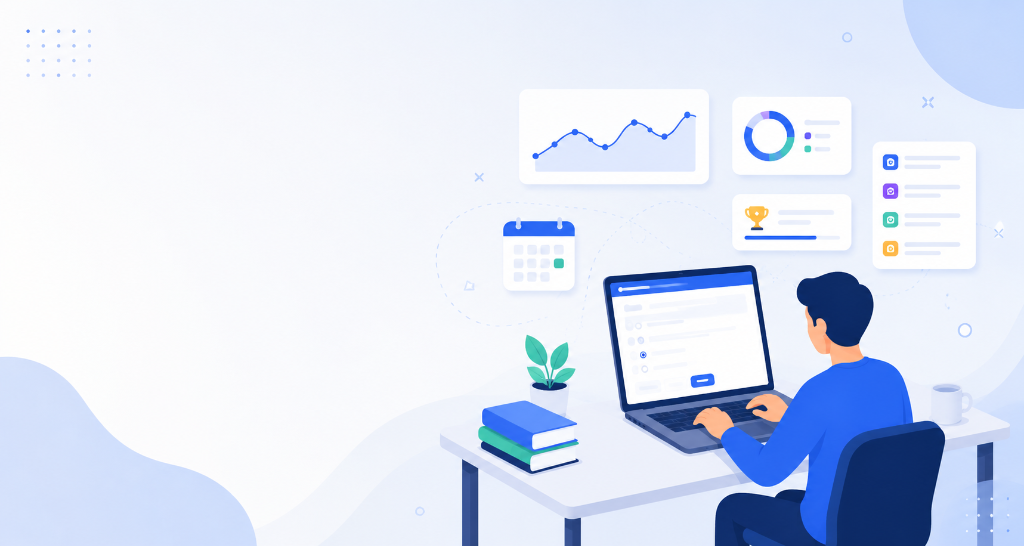
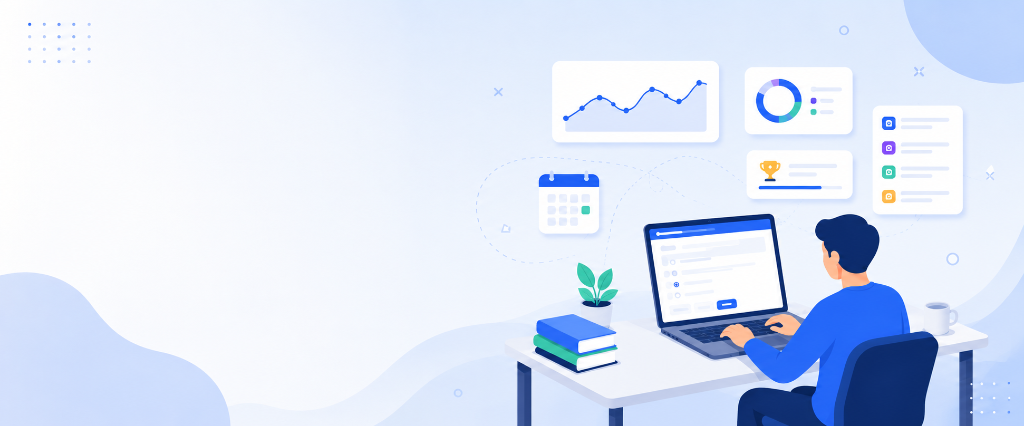
feat(ui): use custom illustration as hero background with minimal wording and clean search bar

diff --git a/src/app/page.tsx b/src/app/page.tsx
@@ -143,70 +143,60 @@ export default async function Home() {
         </div>
       </header>
 
-      {/* 2. Clean, Simple Hero Section (Exact Layout of Reference Image) */}
-      <section className="relative overflow-hidden border-b border-[#E2E8F0] bg-white px-6 py-12 lg:py-20">
-        <div className="mx-auto max-w-7xl">
-          <div className="grid items-center gap-10 lg:grid-cols-2">
-            {/* Left Column: Simple Headline, Subtitle, Prompt & Search Bar */}
-            <div className="max-w-xl">
-              <h1 className="text-4xl font-extrabold tracking-tight text-[#0F172A] sm:text-5xl lg:text-[3.25rem] leading-[1.18]">
-                India&apos;s Structured Online Test<br />
-                <span className="text-[#0F172A]">series platform</span>
-              </h1>
+      {/* 2. Minimal Hero Section with User's Banner Background */}
+      <section className="relative overflow-hidden border-b border-[#E2E8F0] bg-[#EEF4FE] min-h-[460px] lg:min-h-[520px] flex items-center">
+        {/* Full Image Hero Background */}
+        <div
+          className="absolute inset-0 bg-cover bg-center lg:bg-right bg-no-repeat pointer-events-none"
+          style={{ backgroundImage: "url('/images/hero-banner.png')" }}
+        />
+        {/* Subtle left gradient overlay for crisp readability across viewports */}
+        <div className="absolute inset-0 bg-gradient-to-r from-[#EEF4FE] via-[#EEF4FE]/90 to-transparent lg:via-[#EEF4FE]/70 lg:w-[55%] pointer-events-none" />
 
-              <p className="mt-5 text-base sm:text-lg text-[#64748B] leading-relaxed">
-                Boost your exam preparation with Test Series for Banking, SSC, RRB, NSSB, NPSC &amp; All other Govt. Exams
-              </p>
+        <div className="relative z-10 mx-auto max-w-7xl px-6 py-12 lg:py-16 w-full">
+          <div className="max-w-md lg:max-w-lg">
+            <h1 className="text-3xl font-extrabold tracking-tight text-[#0F172A] sm:text-4xl lg:text-5xl leading-tight">
+              India&apos;s Structured Online<br />
+              Test Series Platform
+            </h1>
 
-              <div className="mt-10">
-                <p className="text-sm font-semibold text-[#0F172A]">
-                  814+ exams covered. Which exam are you preparing for?
-                </p>
+            <p className="mt-3 text-base text-[#64748B]">
+              Practice timed mock tests for NSSB, SSC &amp; NPSC exams.
+            </p>
 
-                {/* Clean, Simple Search Bar matching Reference */}
-                <form action="/exams" method="GET" className="relative mt-3 max-w-xl">
-                  <input
-                    type="text"
-                    name="q"
-                    placeholder="Search for your Exam"
-                    className="w-full rounded-xl border border-[#E2E8F0] bg-white py-3.5 pl-5 pr-12 text-sm text-[#0F172A] placeholder-[#94A3B8] shadow-xs transition focus:border-[#4F46E5] focus:outline-none focus:ring-1 focus:ring-[#4F46E5]"
-                  />
-                  <button
-                    type="submit"
-                    className="absolute inset-y-0 right-0 flex items-center pr-4 text-[#94A3B8] hover:text-[#4F46E5] transition"
-                    aria-label="Search for Exam"
-                  >
-                    <svg className="h-5 w-5" fill="none" stroke="currentColor" viewBox="0 0 24 24">
-                      <path strokeLinecap="round" strokeLinejoin="round" strokeWidth="2" d="M21 21l-6-6m2-5a7 7 0 11-14 0 7 7 0 0114 0z" />
-                    </svg>
-                  </button>
-                </form>
-              </div>
-            </div>
-
-            {/* Right Column: Clean Illustration & Support Bubble */}
-            <div className="relative flex items-center justify-center lg:justify-end">
-              <img
-                src="/images/hero-student.png"
-                alt="Structured Online Test Series Platform"
-                className="w-full max-w-md lg:max-w-lg h-auto object-contain"
+            {/* Minimal Search Bar */}
+            <form action="/exams" method="GET" className="relative mt-6 max-w-md">
+              <input
+                type="text"
+                name="q"
+                placeholder="Search for your Exam"
+                className="w-full rounded-xl border border-[#E2E8F0] bg-white py-3 pl-4 pr-12 text-sm text-[#0F172A] placeholder-[#94A3B8] shadow-xs transition focus:border-[#4F46E5] focus:outline-none focus:ring-1 focus:ring-[#4F46E5]"
               />
-
-              {/* Floating WhatsApp Quick Support Bubble (From Reference Image) */}
-              <a
-                href="https://wa.me/"
-                target="_blank"
-                rel="noopener noreferrer"
-                title="Student Support & Exam Queries"
-                className="absolute -bottom-2 right-2 lg:right-0 flex h-12 w-12 items-center justify-center rounded-full bg-[#25D366] text-white shadow-lg transition-transform hover:scale-110"
+              <button
+                type="submit"
+                className="absolute inset-y-0 right-0 flex items-center pr-3.5 text-[#94A3B8] hover:text-[#4F46E5] transition"
+                aria-label="Search Exam"
               >
-                <svg className="h-7 w-7 fill-current" viewBox="0 0 24 24">
-                  <path d="M.057 24l1.687-6.163c-1.041-1.804-1.588-3.849-1.587-5.946.003-6.556 5.338-11.891 11.893-11.891 3.181.001 6.167 1.24 8.413 3.488 2.245 2.248 3.481 5.236 3.48 8.414-.003 6.557-5.338 11.892-11.893 11.892-1.99-.001-3.951-.5-5.688-1.448l-6.305 1.654zm6.597-3.807c1.676.995 3.276 1.591 5.392 1.592 5.448 0 9.886-4.434 9.889-9.885.002-5.462-4.415-9.89-9.881-9.892-5.452 0-9.887 4.434-9.889 9.884-.001 2.225.651 3.891 1.746 5.634l-.999 3.648 3.742-.981z" />
+                <svg className="h-5 w-5" fill="none" stroke="currentColor" viewBox="0 0 24 24">
+                  <path strokeLinecap="round" strokeLinejoin="round" strokeWidth="2" d="M21 21l-6-6m2-5a7 7 0 11-14 0 7 7 0 0114 0z" />
                 </svg>
-              </a>
-            </div>
+              </button>
+            </form>
           </div>
         </div>
+
+        {/* Floating WhatsApp Quick Support Bubble */}
+        <a
+          href="https://wa.me/"
+          target="_blank"
+          rel="noopener noreferrer"
+          title="Student Support & Exam Queries"
+          className="absolute bottom-6 right-6 z-20 flex h-12 w-12 items-center justify-center rounded-full bg-[#25D366] text-white shadow-lg transition-transform hover:scale-110"
+        >
+          <svg className="h-7 w-7 fill-current" viewBox="0 0 24 24">
+            <path d="M.057 24l1.687-6.163c-1.041-1.804-1.588-3.849-1.587-5.946.003-6.556 5.338-11.891 11.893-11.891 3.181.001 6.167 1.24 8.413 3.488 2.245 2.248 3.481 5.236 3.48 8.414-.003 6.557-5.338 11.892-11.893 11.892-1.99-.001-3.951-.5-5.688-1.448l-6.305 1.654zm6.597-3.807c1.676.995 3.276 1.591 5.392 1.592 5.448 0 9.886-4.434 9.889-9.885.002-5.462-4.415-9.89-9.881-9.892-5.452 0-9.887 4.434-9.889 9.884-.001 2.225.651 3.891 1.746 5.634l-.999 3.648 3.742-.981z" />
+          </svg>
+        </a>
       </section>
 
       {/* 3. Core Target Exam Series */}
